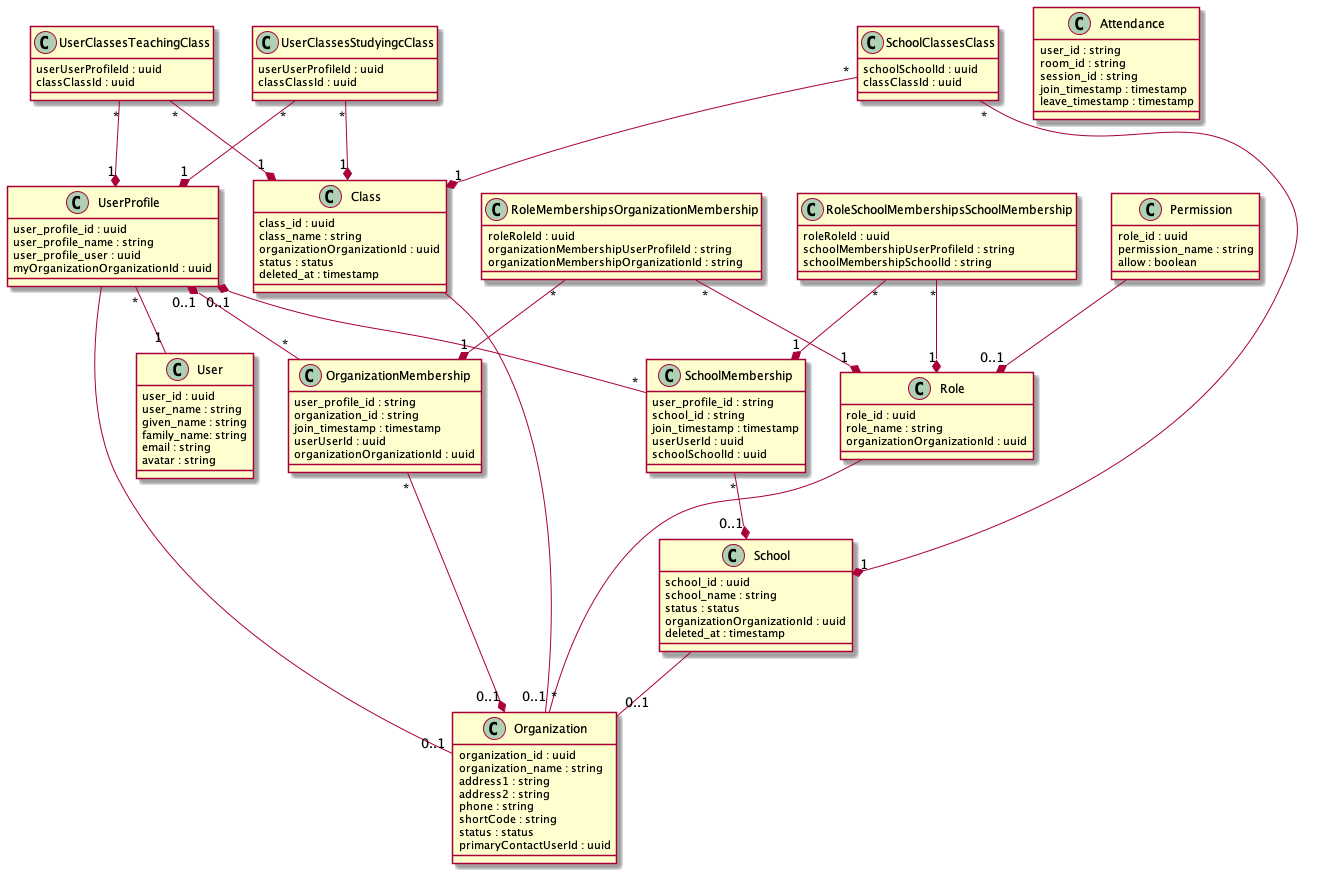
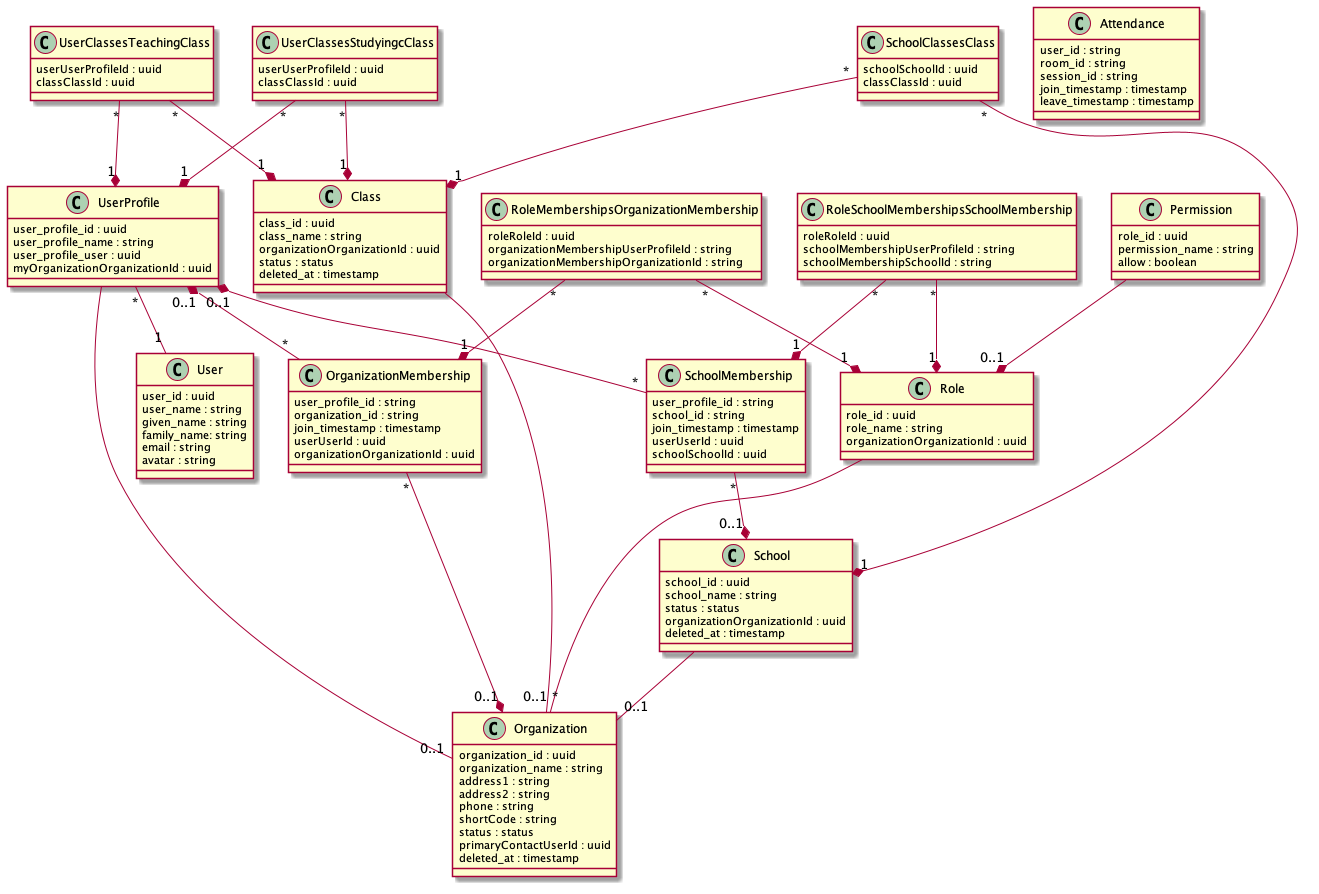
[KL-2250]  ✄ Add soft delete to organization entity This will allow us to mark an organization as inactive and keep history about what is going on

diff --git a/tests/integration/organization.test.ts b/tests/integration/organization.test.ts
@@ -7,13 +7,16 @@ import { User } from "../../src/entities/user";
 import { Status } from "../../src/entities/status";
 import { createOrganizationAndValidate } from "../utils/operations/userOps";
 import { createUserJoe, createUserBilly } from "../utils/testEntities";
-import { getSchoolMembershipsForOrganizationMembership } from "../utils/operations/organizationMembershipOps";
-import { addUserToOrganizationAndValidate, createSchool, createClass, createRole,  inviteUser, editMembership} from "../utils/operations/organizationOps";
+import { getSchoolMembershipsForOrganizationMembership, addRoleToOrganizationMembership } from "../utils/operations/organizationMembershipOps";
+import { addUserToOrganizationAndValidate, createSchool, createClass, createRole,  inviteUser, editMembership, deleteOrganization } from "../utils/operations/organizationOps";
+import { grantPermission } from "../utils/operations/roleOps";
 import { ApolloServerTestClient, createTestClient } from "../utils/createTestClient";
 import { addUserToSchool } from "../utils/operations/schoolOps";
 import { SchoolMembership } from "../../src/entities/schoolMembership";
 import { JoeAuthToken, BillyAuthToken } from "../utils/testConfig";
 import { Organization } from "../../src/entities/organization";
+import { OrganizationMembership } from "../../src/entities/organizationMembership";
+import { PermissionName } from "../../src/permissions/permissionNames";
 import { Role } from "../../src/entities/role";
 import { UniqueDirectiveNamesRule } from "graphql";
 
@@ -172,6 +175,21 @@ describe("organization", () => {
                     expect(cls.class_name).to.eq(otherClass.class_name)
                     expect(cls.status).to.eq(Status.ACTIVE)
                 });
+
+                context("and the organization is marked as inactive", () => {
+                    beforeEach(async () => {
+                        await deleteOrganization(testClient, organization.organization_id, { authorization: JoeAuthToken });
+                    });
+
+                    it("fails to create class in the organization", async () => {
+                        const cls = await createClass(testClient, organizationId, "", { authorization: JoeAuthToken });
+
+                        expect(cls).to.be.null
+                        const dbOrg = await Organization.findOneOrFail(organizationId);
+                        const orgClasses = await dbOrg.classes || []
+                        expect(orgClasses).to.be.empty
+                    });
+                });
             });
         });
     })
@@ -252,6 +270,21 @@ describe("organization", () => {
                     expect(school.school_id).to.not.eq(otherSchool.school_id)
                     expect(school.school_name).to.eq(otherSchool.school_name)
 
+                });
+
+                context("and the organization is marked as inactive", () => {
+                    beforeEach(async () => {
+                        await deleteOrganization(testClient, organization.organization_id, { authorization: JoeAuthToken });
+                    });
+
+                    it("fails to create school in the organization", async () => {
+                        const school = await createSchool(testClient, organizationId, "some school 1", { authorization: JoeAuthToken });
+
+                        expect(school).to.be.null
+                        const dbSchool = await Organization.findOneOrFail(organizationId);
+                        const orgSchools = await dbSchool.schools || []
+                        expect(orgSchools).to.be.empty
+                    });
                 });
             });
         });
@@ -483,6 +516,26 @@ describe("organization", () => {
                 expect(membership.user_id).to.equal(newUser.user_id)
             });
 
+            context("and the organization is marked as inactive", () => {
+                beforeEach(async () => {
+                    await deleteOrganization(testClient, organization.organization_id, { authorization: JoeAuthToken });
+                });
+
+                it("fails to invite user to the organization", async () => {
+                    let email = "bob@nowhere.com"
+                    let phone = undefined
+                    let given = "Bob"
+                    let family = "Smith"
+                    let gqlresult = await inviteUser( testClient, organizationId, email, phone, given, family, new Array(roleId), Array(schoolId), new Array(roleId))
+                    expect(gqlresult).to.be.null
+
+                    const dbOrganization = await Organization.findOneOrFail({ where: { organization_id: organizationId } });
+                    const organizationMemberships = await dbOrganization.memberships;
+                    const dbOrganizationMembership = await OrganizationMembership.findOneOrFail({ where: { organization_id: organizationId, user_id: userId } });
+
+                    expect(organizationMemberships).to.deep.include(dbOrganizationMembership);
+                });
+            });
         });
     });
     describe("editMemberships", async () => {
@@ -547,7 +600,93 @@ describe("organization", () => {
                 expect(membership.organization_id).to.equal(organizationId)
                 expect(membership.user_id).to.equal(newUser.user_id)
             });
+
+            context("and the organization is marked as inactive", () => {
+                beforeEach(async () => {
+                    await deleteOrganization(testClient, organization.organization_id, { authorization: JoeAuthToken });
+                });
+
+                it("fails to edit membership on the organization", async () => {
+                    let email = undefined
+                    let phone = "+44207344141"
+                    let given = "Bob"
+                    let family = "Smith"
+                    let gqlresult = await editMembership( testClient, organizationId, email, phone, given, family, new Array(roleId), Array(schoolId), new Array(roleId))
+                    expect(gqlresult).to.be.null
+                });
+            });
         });
     });
 
+    describe("delete", () => {
+        let user: User;
+        let organization : Organization;
+
+        beforeEach(async () => {
+            await connection.synchronize(true);
+
+            const orgOwner = await createUserJoe(testClient);
+            user = await createUserBilly(testClient);
+            organization = await createOrganizationAndValidate(testClient, orgOwner.user_id);
+            const organizationId = organization?.organization_id
+            await addUserToOrganizationAndValidate(testClient, user.user_id, organization.organization_id, { authorization: JoeAuthToken });
+        });
+
+        context("when not authenticated", () => {
+            it("fails to delete the organization", async () => {
+                 const gqlOrganization = await deleteOrganization(testClient, organization.organization_id, { authorization: undefined });
+                expect(gqlOrganization).to.be.false;
+                const dbOrganization = await Organization.findOneOrFail(organization.organization_id);
+                expect(dbOrganization.status).to.eq(Status.ACTIVE);
+                expect(dbOrganization.deleted_at).to.be.null;
+            });
+        });
+
+        context("when authenticated", () => {
+            context("and the user does not have delete organization permissions", () => {
+                beforeEach(async () => {
+                    const role = await createRole(testClient, organization.organization_id);
+                    await addRoleToOrganizationMembership(testClient, user.user_id, organization.organization_id, role.role_id);
+                });
+
+                it("fails to delete the organization", async () => {
+                    const gqlOrganization = await deleteOrganization(testClient, organization.organization_id, { authorization: BillyAuthToken });
+                    expect(gqlOrganization).to.be.false;
+                    const dbOrganization = await Organization.findOneOrFail(organization.organization_id);
+                    expect(dbOrganization.status).to.eq(Status.ACTIVE);
+                    expect(dbOrganization.deleted_at).to.be.null;
+                });
+            });
+
+            context("and the user has all the permissions", () => {
+                beforeEach(async () => {
+                    const role = await createRole(testClient, organization.organization_id);
+                    await grantPermission(testClient, role.role_id, PermissionName.delete_organization_10440);
+                    await addRoleToOrganizationMembership(testClient, user.user_id, organization.organization_id, role.role_id);
+                });
+
+                it("deletes the organization", async () => {
+                    const gqlOrganization = await deleteOrganization(testClient, organization.organization_id, { authorization: BillyAuthToken });
+                    expect(gqlOrganization).to.be.true;
+                    const dbOrganization = await Organization.findOneOrFail(organization.organization_id);
+                    expect(dbOrganization.status).to.eq(Status.INACTIVE);
+                    expect(dbOrganization.deleted_at).not.to.be.null;
+                });
+
+                context("and the organization is marked as inactive", () => {
+                    beforeEach(async () => {
+                        await deleteOrganization(testClient, organization.organization_id, { authorization: JoeAuthToken });
+                    });
+
+                    it("fails to delete the organization", async () => {
+                        const gqlOrganization = await deleteOrganization(testClient, organization.organization_id, { authorization: BillyAuthToken });
+                        expect(gqlOrganization).to.be.null;
+                        const dbOrganization = await Organization.findOneOrFail(organization.organization_id);
+                        expect(dbOrganization.status).to.eq(Status.INACTIVE);
+                        expect(dbOrganization.deleted_at).not.to.be.null;
+                    });
+                });
+            });
+        });
+    });
 });

diff --git a/src/entities/organization.ts b/src/entities/organization.ts
@@ -100,6 +100,9 @@ export class Organization extends BaseEntity {
     @JoinColumn()
     public classes?: Promise<Class[]>
 
+    @Column({ type: 'timestamp', nullable: true})
+    public deleted_at?: Date
+
     public async set({
         organization_name,
         address1,
@@ -114,7 +117,7 @@ export class Organization extends BaseEntity {
               PermissionName.edit_an_organization_details_5
             )
 
-            if(info.operation.operation !== "mutation") { return null }
+            if(info.operation.operation !== "mutation" || this.status == Status.INACTIVE) { return null }
 
             if(typeof organization_name === "string") { this.organization_name = organization_name }
             if(typeof address1 === "string") { this.address1 = address1 }
@@ -191,7 +194,7 @@ export class Organization extends BaseEntity {
               PermissionName.edit_an_organization_details_5
             )
 
-            if(info.operation.operation !== "mutation") { return null }
+            if(info.operation.operation !== "mutation" || this.status == Status.INACTIVE) { return null }
 
             const user = await getRepository(User).findOneOrFail({user_id})
             this.primary_contact = Promise.resolve(user)
@@ -211,7 +214,7 @@ export class Organization extends BaseEntity {
               PermissionName.send_invitation_40882
             )
 
-            if(info.operation.operation !== "mutation") { return null }
+            if(info.operation.operation !== "mutation" || this.status == Status.INACTIVE) { return null }
 
             const user = await getRepository(User).findOneOrFail(user_id)
 
@@ -231,7 +234,7 @@ export class Organization extends BaseEntity {
     public async inviteUser({email, phone, given_name, family_name, organization_role_ids, school_ids, school_role_ids}: any, context: Context, info: GraphQLResolveInfo) {
         await context.permissions.rejectIfNotAllowed(this, PermissionName.send_invitation_40882)
         try {
-            if(info.operation.operation !== "mutation") { return null }
+            if(info.operation.operation !== "mutation" || this.status == Status.INACTIVE) { return null }
             const result = await this._setMembership(email, phone, given_name, family_name, organization_role_ids, school_ids, school_role_ids)
             return result
         } catch(e) {
@@ -242,7 +245,7 @@ export class Organization extends BaseEntity {
     public async editMembership({email, phone, given_name, family_name, organization_role_ids, school_ids, school_role_ids}: any, context: Context, info: GraphQLResolveInfo) {
         await context.permissions.rejectIfNotAllowed(this, PermissionName.edit_users_40330)
         try {
-            if(info.operation.operation !== "mutation") { return null }
+            if(info.operation.operation !== "mutation" || this.status == Status.INACTIVE) { return null }
             const result = await this._setMembership(email, phone, given_name, family_name, organization_role_ids, school_ids, school_role_ids)
             return result
         } catch(e) {
@@ -359,7 +362,7 @@ export class Organization extends BaseEntity {
               PermissionName.create_role_with_permissions_30222
             )
 
-            if(info.operation.operation !== "mutation") { return null }
+            if(info.operation.operation !== "mutation" || this.status == Status.INACTIVE) { return null }
             const manager = getManager()
 
             const role = new Role()
@@ -380,7 +383,7 @@ export class Organization extends BaseEntity {
               PermissionName.create_class_20224
             )
 
-            if(info.operation.operation !== "mutation") { return null }
+            if(info.operation.operation !== "mutation" || this.status == Status.INACTIVE) { return null }
             const manager = getManager()
 
             const _class = new Class()
@@ -402,7 +405,7 @@ export class Organization extends BaseEntity {
               PermissionName.create_school_20220
             )
 
-            if(info.operation.operation !== "mutation") { return null }
+            if(info.operation.operation !== "mutation" || this.status == Status.INACTIVE) { return null }
 
             const school = new School()
             school.school_name = school_name
@@ -467,6 +470,27 @@ export class Organization extends BaseEntity {
         }
 
         return this.roles
+    }
+
+    public async delete({}: any, context: Context, info: GraphQLResolveInfo) {
+        try {
+            if(info.operation.operation !== "mutation" || this.status == Status.INACTIVE) { return null }
+
+            const permisionContext = { organization_id: this.organization_id }
+            await context.permissions.rejectIfNotAllowed(
+              permisionContext,
+              PermissionName.delete_organization_10440
+            )
+
+            this.status = Status.INACTIVE
+            this.deleted_at = new Date()
+            await this.save()
+
+            return true
+        } catch(e) {
+            console.error(e)
+        }
+        return false
     }
 
     public async _createDefaultRoles(manager: EntityManager = getManager()) {

diff --git a/tests/utils/operations/organizationOps.ts b/tests/utils/operations/organizationOps.ts
@@ -63,6 +63,14 @@ const ADD_USER_TO_ORGANIZATION = `
     }
 `;
 
+const DELETE_ORGANIZATION = `
+    mutation myMutation($organization_id: ID!) {
+        organization(organization_id: $organization_id) {
+            delete
+        }
+    }
+`;
+
 const INVITE_USER = `
     mutation myMutation($organization_id: ID!, $email:String, $phone: String, $given_name: String, $family_name: String, $organization_role_ids: [ID!], $school_ids:[ID!] , $school_role_ids:[ID!] ) {
         organization(organization_id: $organization_id) {
@@ -234,8 +242,6 @@ export async function inviteUser(testClient: ApolloServerTestClient, organizatio
     });
     expect(res.errors, res.errors?.toString()).to.be.undefined;
     const result = res.data?.organization.inviteUser as {user:User,membership: OrganizationMembership,schoolMemberships: SchoolMembership[]}
-    expect(result.membership).to.exist;
-    expect(result.membership.user_id).equals(result.user.user_id);
     return result
 }
 
@@ -272,10 +278,21 @@ export async function editMembership(testClient: ApolloServerTestClient, organiz
     });
     expect(res.errors, res.errors?.toString()).to.be.undefined;
     const result = res.data?.organization.editMembership as {user:User,membership: OrganizationMembership,schoolMemberships: SchoolMembership[]}
-    expect(result.membership).to.exist;
-    expect(result.membership.user_id).equals(result.user.user_id);
     return result
 }
 
+export async function deleteOrganization(testClient: ApolloServerTestClient, organizationId: string, headers?: Headers) {
+    const { mutate } = testClient;
+
+    const operation = () => mutate({
+        mutation: DELETE_ORGANIZATION,
+        variables: { organization_id: organizationId },
+        headers: headers,
+    });
+
+    const res = await gqlTry(operation);
+    const gqlOrganization = res.data?.organization.delete as boolean;
+    return gqlOrganization;
+}
 
 
